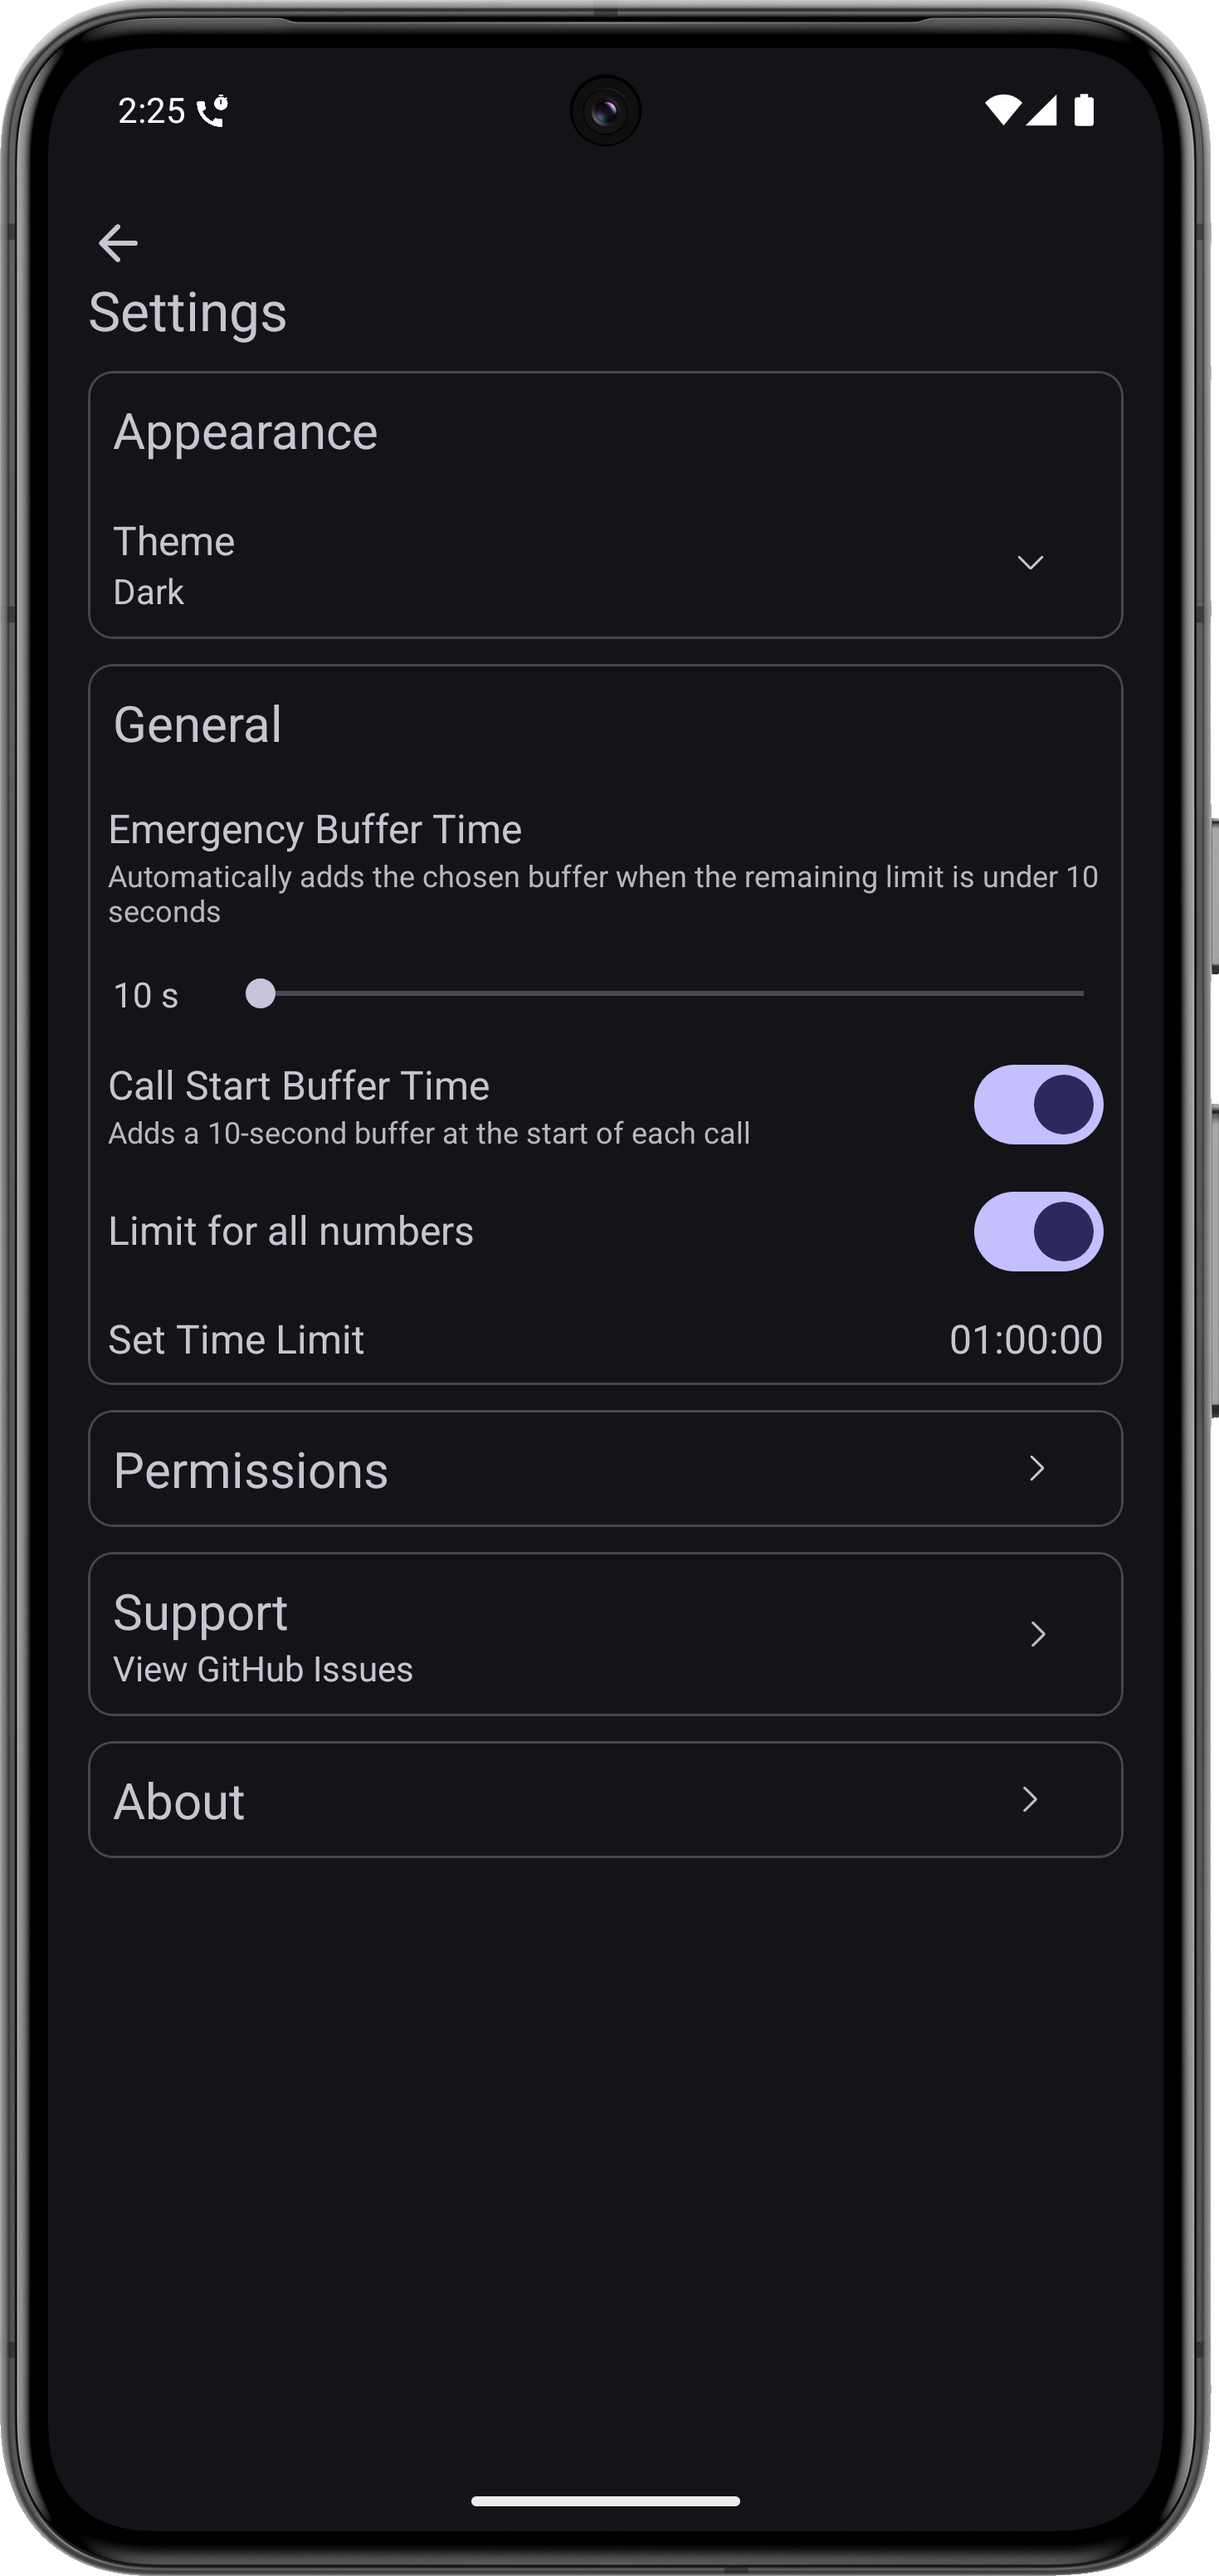
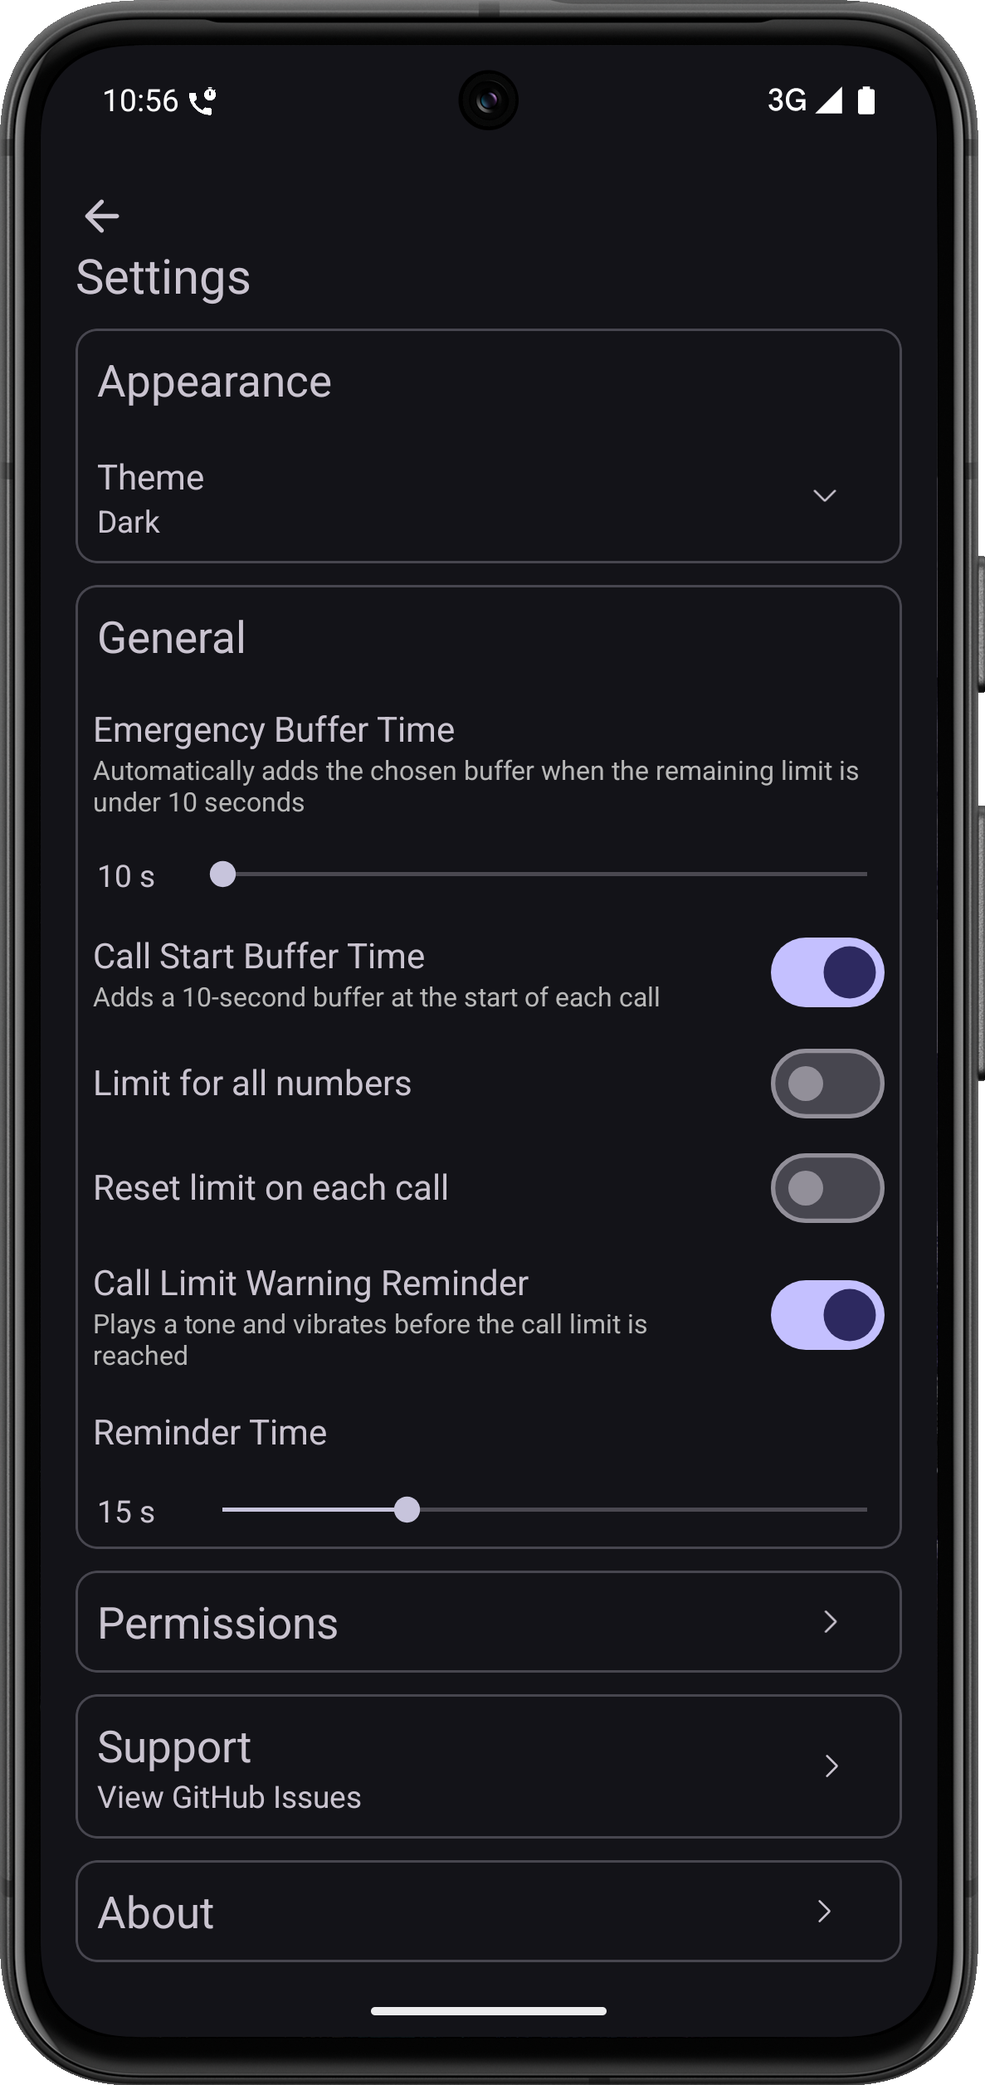
release-notes-&-version

diff --git a/README.md b/README.md
@@ -55,6 +55,7 @@ Call Limiter is an Android application designed to help users set a time limit f
 - 🎨 **Dark & Light themes** with system theme support
 - ⚡ **Emergency Buffer Time** (extra seconds for critical calls)
 - 🔒 **Privacy-first** – works fully offline, no data is ever shared
+- 🔔 **Call Limit Warning Reminder** – Get an in-call audio alert and haptic vibration when your remaining call time reaches your chosen threshold
 
 ## ⚒ How It Works
 
@@ -88,6 +89,7 @@ Call Limiter requires the following Android permissions:
 - ⏳ **Call Start Buffer Time** → Enable or disable a 10-second buffer at the beginning of each call
 - 🌐 **Global Call Limit** → Apply default time limit to all contacts automatically
 - ⏳ **Limit Scope (Per Call / Per Day)** → When enabled, the limit resets after each call. Otherwise, it resets daily 
+- 🔔 **Call Limit Warning Reminder** → Enable/disable audio and vibration alerts with customizable threshold (5s – 120s)
 - 📜 **Permissions Page** → View and manage required app permissions
 - 🆘 **Support / Help** → Redirect to GitHub Issues for reporting bugs
 - ℹ **About** → Author, Repository, Change Log, Terms & Conditions and Privacy Policy
